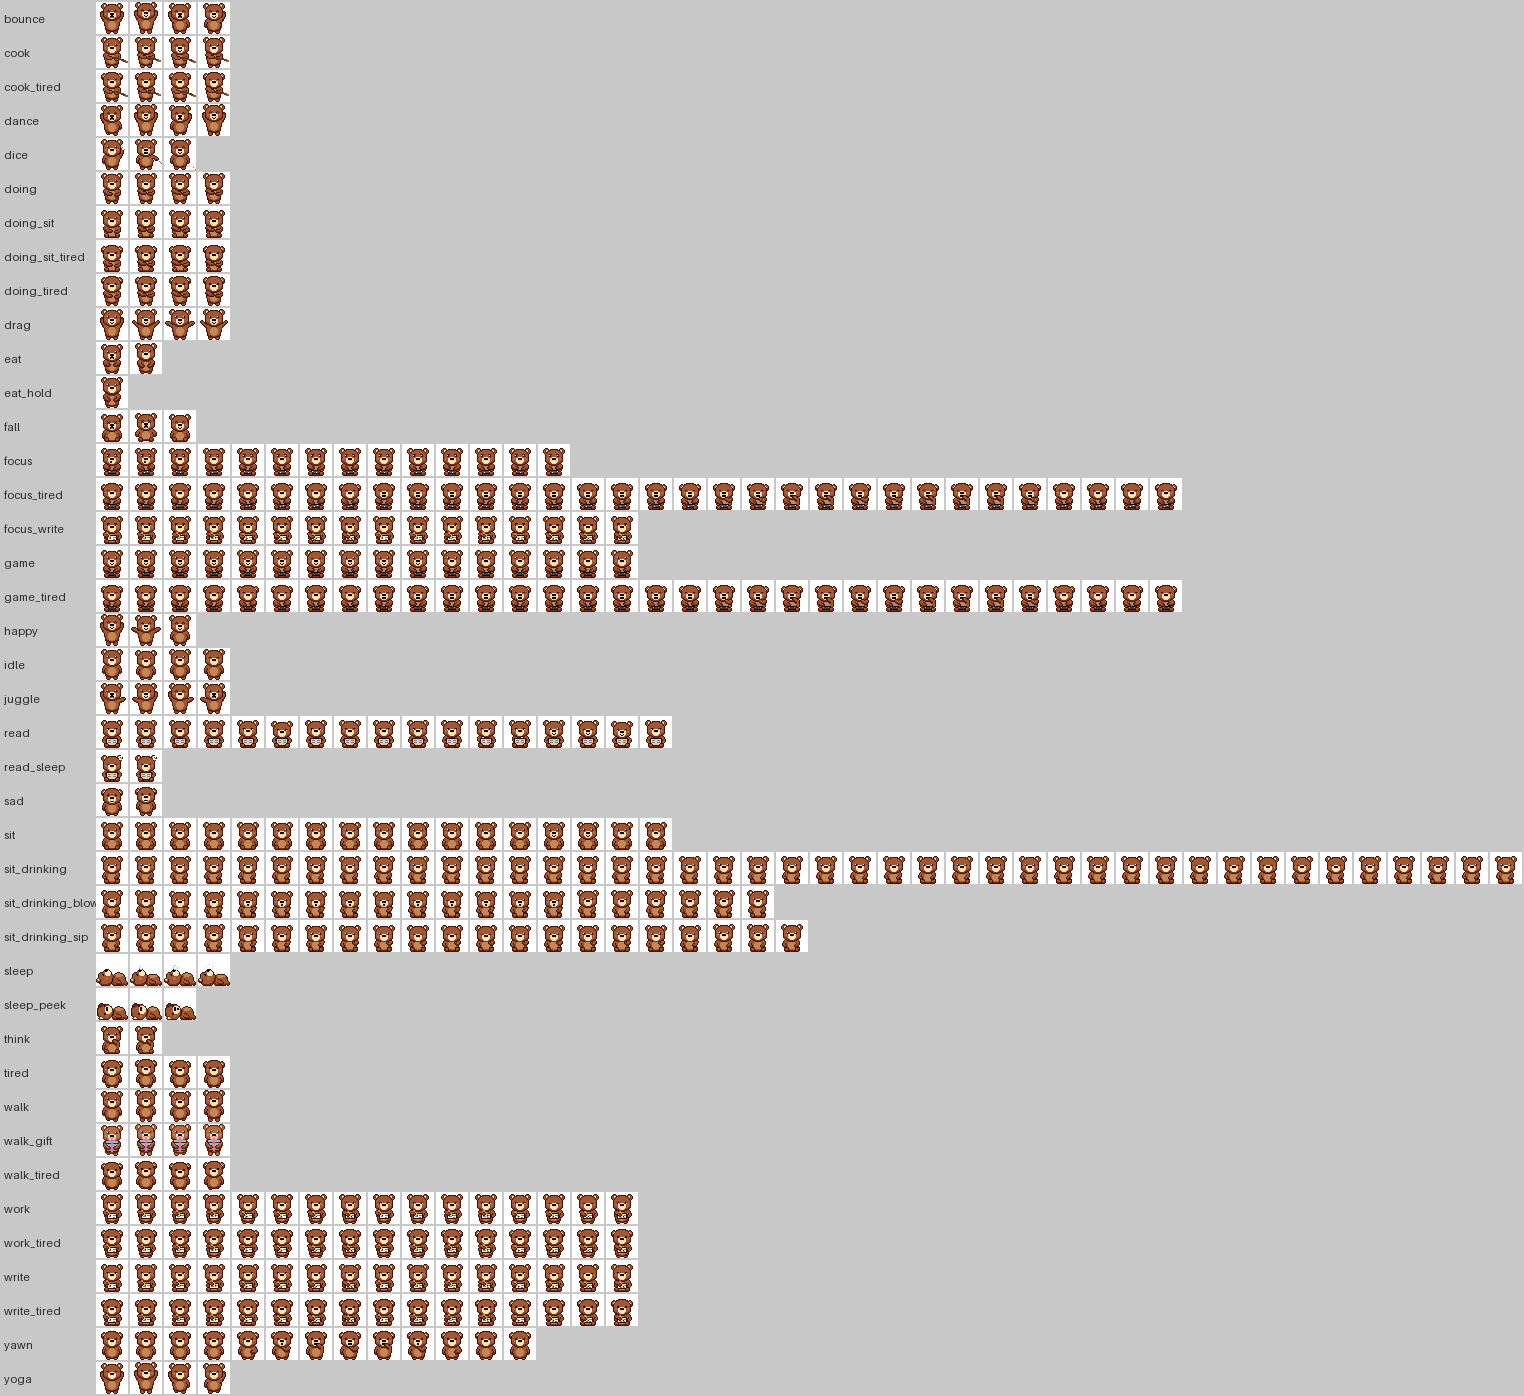
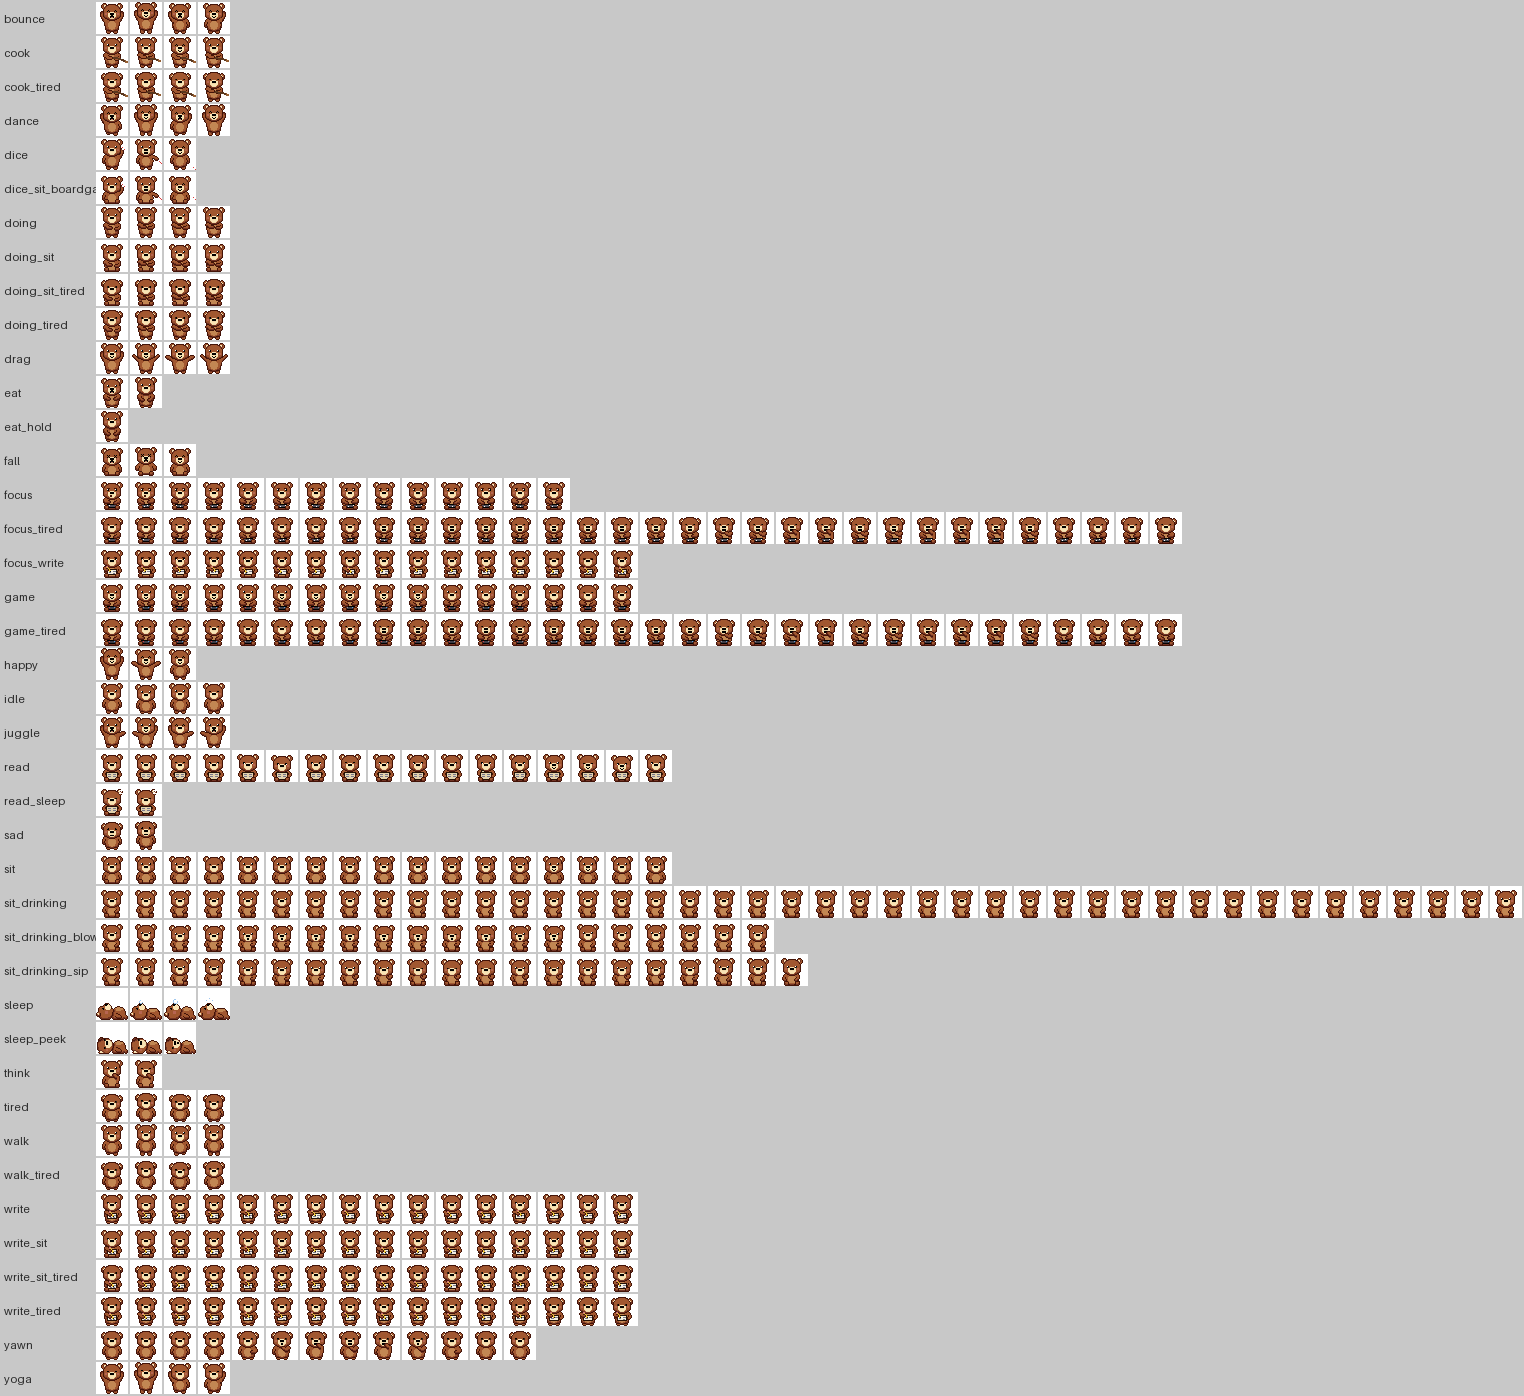
clothes_sheet.py: only animations that still exist; fresh art_templates/clothes_sheet.png (bare) and clothes_sheet_draft.png (with the current clothes map)
Claude-Session: https://claude.ai/code/session_018yUitM4zMV3L9odfX6GAV1

diff --git a/tools/clothes_sheet.py b/tools/clothes_sheet.py
@@ -33,7 +33,7 @@ SIZE, GAP, LABEL = 32, 2, 96
 
 
 def anims():
-    return sorted(mp.HAND_DRAWN | set(mp.EXTRA_DRAWN) | {"eat_hold"})
+    return ac.all_anims()   # нарисуваните, които ги има (без махнатите)
 
 
 def layout(names=None):
